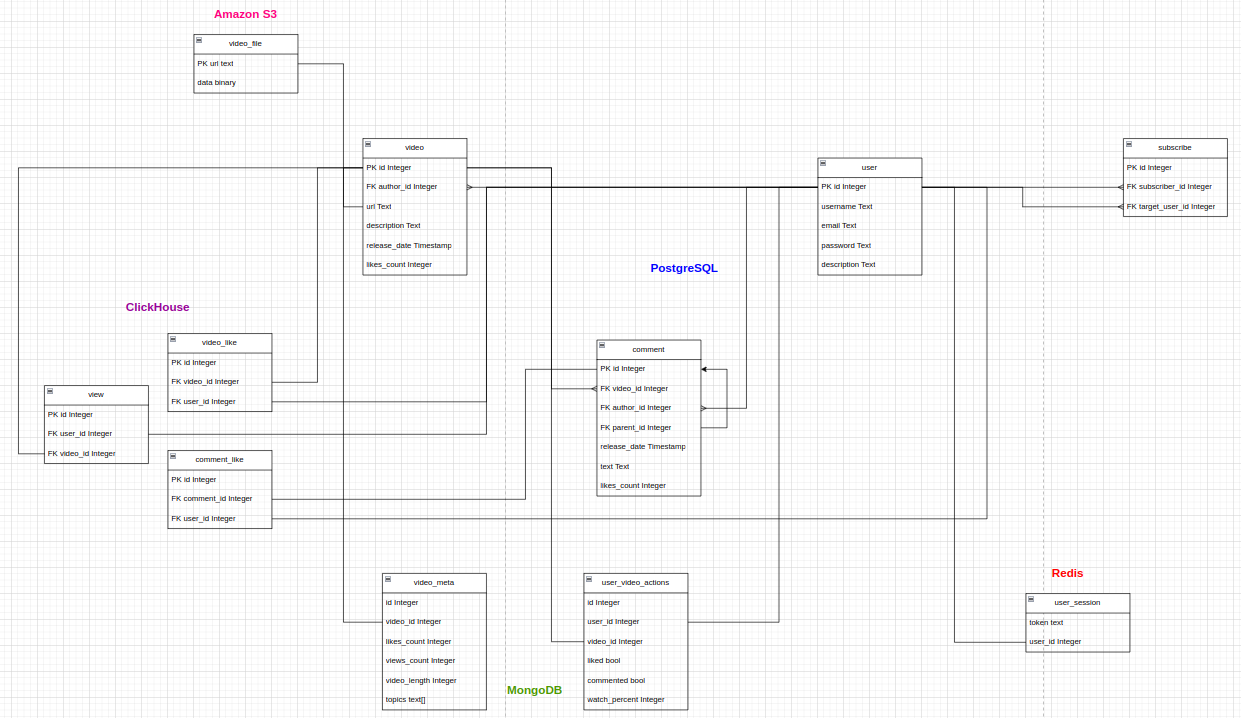
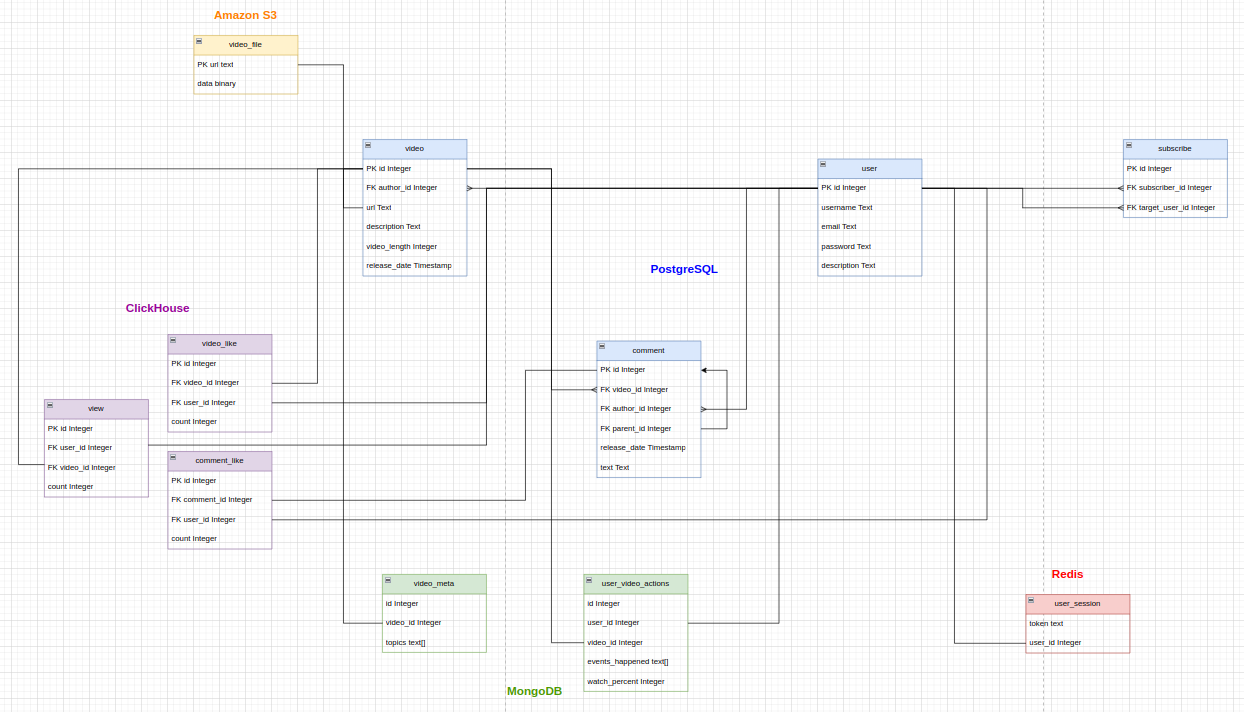
10. Обеспечение надежности

diff --git a/README.md b/README.md
@@ -274,23 +274,22 @@ comment по video_id, остальные таблицы по id.
 |---------------------|------------|----------------|
 | id                  | uuid       |       16       |
 | author_id           | uuid    |       16       |
-| video_path          | varchar    |       16       |
+| url                 | varchar    |       16       |
 | description         | varchar    |       256      |
-| likes_count         | uuid       |       16       |
+| video_length         | uuid       |       16       |
 | release_date        | uuid       |       8        |
 | **Итого за запись** |            |     **328**    |
 
 ### Таблица `comment`
 | Название поля       | Тип данных | Размер (байты) |
 |---------------------|------------|----------------|
-| id                  | uuid       |       16       |
-| video_id            | uuid       |       16       |
-| author_id           | uuid    |       16       |
-| text                | varchar    |       256      |
-| likes_count         | uuid       |       16       |
-| parent_id           | uuid       |       16       |
-| release_date        | varchar    |       8        |
-| **Итого за запись** |            |     **344**    |
+| id                  | uuid       | 16             |
+| video_id            | uuid       | 16             |
+| author_id           | uuid    | 16             |
+| text                | varchar    | 256            |
+| parent_id           | uuid       | 16             |
+| release_date        | varchar    | 8              |
+| **Итого за запись** |            | **328**        |
 
 ### Таблица `subscribe`
 | Название поля | Тип данных | Размер (байты) |
@@ -303,18 +302,20 @@ comment по video_id, остальные таблицы по id.
 ### `view`
 | Название поля       | Тип данных | Размер (байты) |
 |---------------------|------------|----------------|
-| id                  |   uuid  |       16       |
-| user_id             |   uuid  |       16       |
-| video_id            |   uuid  |       16       |
-| **Итого за запись** |            |     **32**     |
+| id                  |   uuid  | 16             |
+| user_id             |   uuid  | 16             |
+| video_id            |   uuid  | 16             |
+| count               | uuid       | 16             |
+| **Итого за запись** |            | **64**         |
 
 ### `video_like`
-| Название поля | Тип данных | Размер (байты) |
-|---------------|------------|----------------|
-| id            | uuid       | 16             |
-| video_id      | uuid       | 16             |
-| user_id       | uuid    | 16             |
-| **Итого за запись** |            БД опять| **48**          |
+| Название поля       | Тип данных | Размер (байты) |
+|---------------------|------------|----------------|
+| id                  | uuid       | 16             |
+| video_id            | uuid       | 16             |
+| user_id             | uuid    | 16             |
+| count               | uuid       | 16             |
+| **Итого за запись** |            БД опять| **64**          |
 
 ### `comment_like`
 | Название поля       | Тип данных | Размер (байты) |
@@ -322,7 +323,8 @@ comment по video_id, остальные таблицы по id.
 | id                  | uuid       | 16             |
 | comment_id          | uuid       | 16             |
 | user_id             | uuid    | 16             |
-| **Итого за запись** |            | **48**          |
+| count               | uuid       | 16             |
+| **Итого за запись** |            | **64**         |
 
 ### `user_session`
 | Название поля       | Тип данных | Размер (байты) |
@@ -336,11 +338,8 @@ comment по video_id, остальные таблицы по id.
 |---------------------|------------|----------------|
 | id                  | uuid       | 16             |
 | video_id            | uuid       | 16             |
-| likes_count         | uuid       | 16             |
-| views_count         | uuid       | 16             |
-| video_length        | uuid       | 16             |
 | topics              | text[]     | -              |
-| **Итого за запись** |            | **от 80**      |
+| **Итого за запись** |            | **от 32**      |
 
 ### `user_video_actions`
 | Название поля       | Тип данных | Размер (байты) |
@@ -348,10 +347,9 @@ comment по video_id, остальные таблицы по id.
 | id                  | uuid       | 16             |
 | user_id             | uuid       | 16             |
 | video_id            | uuid       | 16             |
-| liked               | bool       | 1              |
-| commented           | bool       | 1              |
-| finished_watching   | bool       | 1              |
-| **Итого за запись** |            | **51**         |
+| watch_percent       | uuid       | 16             |
+| events_happened     | text[]     | -              |
+| **Итого за запись** |            | **от 64**      |
 
 ## 7. Алгоритмы
 
@@ -360,11 +358,11 @@ comment по video_id, остальные таблицы по id.
 Алгоритм формирования рекомендаций будет состоять из нескольких ключевых шагов:
 
 1. Сбор данных
-- Каждый раз, когда пользователь пролистывает пачку видео, отправляются на сервер их данные (user_video_actions): ``user_id``, ``video_id``, ``finished_watching``, ``liked``, ``commented``.
-- Из таблицы с метаданными видео, полученными при обработке, берутся по ``video_id`` данные: ``likes_count``, ``views_count``, ``video_length``, ``topiсs``.
+- Каждый раз, когда пользователь пролистывает пачку видео, отправляются на сервер их данные (user_video_actions): ``user_id``, ``video_id``, ``watch_percent``, ``events_happened``.
+- Из таблицы с метаданными видео, полученными при обработке, берутся по ``video_id`` данные ``topiсs``.
 2. Запись данных
-- Сохранение данных: данные, полученные от клиента и метаданные каждого видео, записываются в MongoDB.
-- Отправка данных на обработку: Отправка пачки вышеупомянутых данных пользователя брокеру сообщений для последующей обработки.
+- Отправка данных на обработку: сервис рекоммендаций кладет пачку вышеупомянутых данных брокеру сообщений (Kafka)
+- Сохранение данных: в зависимости от EventType (из events_happened) происходит обновление данных в бд.
 3. Анализ данных (модель - SVD (Singular Value Decomposition))
 - Генерация рекомендаций: Модель предсказывает, какие видео из вариантов, которые модели сохраняли при публикации видео, могут заинтересовать пользователя, на основе его полученных взаимодействий.
 - Сохранение данных: Полученные ``video_id`` отправляются в ленту пользоваетеля.
@@ -410,6 +408,44 @@ comment по video_id, остальные таблицы по id.
 
 ## 9. Схема проекта
 ![img.png](static/project.png)
+
+## 10. Обеспечение надежности
+
+### Мониторинг
+Сбор метрик, отображаемых в Grafana, и отправка алертов, помогают своевремнно выявить проблемные места в коде, 
+например долгое выполнение определенных запросов поможет заострить внимание на анализе пути запроса и ускорении запроса.
+Грамотное логгирование.
+
+### QA
+CI/CD, качественное тестирование, code review.
+
+### Резервирование ресурсов 
+Резервируем сервера, датацентры, CPU, диски, память 
+
+### Резервирование баз данных и брокера сообщений
+В Postgres, MongoDB, Redis используем механизм репликации master-slave, а также периодическое резервное копирование данных.
+В ClickHouse используем репликацию с помощью ReplicatedMergeTree.
+
+У Kafka будем использовать соглашение exactly once. Это значит, что если приложение-продюсер из-за сбоя сети или какой-то внутренней ошибки 
+повторно отправит одни и те же данные в Kafka, сообщение будет записано в топик только один раз.
+
+### Graceful shutdown 
+Необходимо реализовать “плавную” остановку (сервер не получает новые запросы, ожидает закрытия всех
+активных соединений, чтобы завершить свою работу).
+
+### Graceful degradation
+Необходима проработка архитектуры, которая учитывает отказ компонентов и продолжает
+стабильно работать некоторое или неограниченное количество времени. Функции с наибольшим трафиком находятся в приоритете, скорее всего
+при отказе компонентов не получится поддержать функциональность на 100%.
+
+Для TikTok критичной функциональностью будет авторизация, загрузка видео, просмотр ленты. Функциональность, 
+которая имеет право "отвалиться": лайки, комментарии, просмотры, подписки.
+
+### Failover policy 
+- перезапросы 
+- меньше запросов, которые посылаются на проблемный хост, компонент
+
+
 
 ## Источники
 1. https://www.demandsage.com/tiktok-user-statistics/
